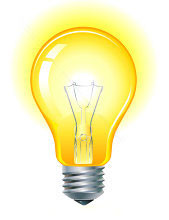
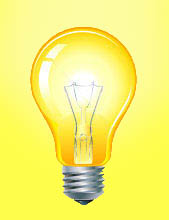
Projeto da Lampada

diff --git a/Modulo_02/miniProjetoLampada/script.js b/Modulo_02/miniProjetoLampada/script.js
@@ -1,94 +1,74 @@
 "use strict"
 
-// Mapeamento dos elementos HTML para variáveis JavaScript
-// Usamos "const" para variáveis que não terão seu valor alterado, como os elementos da página.
+// Definição de variaveis
 const lampada = document.getElementById("lampada")
 const ligar = document.getElementById("ligar")
 const desligar = document.getElementById("desligar")
 const piscar = document.getElementById("piscar")
 
-// Variável para armazenar o ID do setInterval, que é o temporizador que faz a lâmpada piscar.
-// Usamos "let" porque esse valor pode mudar.
+// Variável para armazenar o intervalo
 let idInterval
 
-// --- Funções de Lógica e Ação ---
+// ----------- Funções -----------
 
 // Esta função verifica se a lâmpada está quebrada.
-// É uma "função de validação" que retorna true ou false.
 function isLampadaQuebrada() {
-    // O método 'includes()' verifica se uma string existe em outra.
-    // Se o caminho da imagem da lâmpada contém a palavra "quebrada", retorna true.
     return lampada.src.includes("quebrada")
 }
 
 // Esta função liga a lâmpada.
 function ligarLampada() {
-    // '!' significa "NÃO". Ou seja: "Se a lâmpada NÃO está quebrada..."
     if (!isLampadaQuebrada()) {
-        // ...muda a imagem para a lâmpada ligada.
-        lampada.src = "ligada.jpg"
+        lampada.src = "ligada.jpg" //muda imagem
+        document.body.style.backgroundColor = "yellow" //muda a cor do fundo
     }
 }
 
 // Esta função desliga a lâmpada.
 function desligarLampada() {
     if (!isLampadaQuebrada()) {
-        // Se a lâmpada não está quebrada, muda a imagem para a lâmpada desligada.
-        lampada.src = "desligada.jpg"
+        lampada.src = "desligada.jpg" //muda imagem
+        document.body.style.backgroundColor = "black" //muda a cor do fundo
     }
 }
 
 // Esta função quebra a lâmpada.
 function quebrarLampada() {
-    // Muda a imagem para a lâmpada quebrada.
-    lampada.src = "quebrada.jpg"
-    // Quando a lâmpada quebra, a função 'pararPiscar' é chamada para garantir que o pisca-pisca pare.
+    lampada.src = "quebrada.jpg" //muda imagem
     pararPiscar()
+    document.body.style.backgroundColor = "gray" //muda a cor do fundo
 }
 
-// Esta função alterna a imagem entre ligada e desligada.
-// É usada na função 'piscarLampada'.
+//função usada para 'piscarLampada'.
 function trocarImagem() {
-    // Se o caminho da imagem inclui "desligada", a lâmpada está desligada.
     if (lampada.src.includes("desligada")) {
-        ligarLampada() // Chama a função para ligar.
+        ligarLampada()
     } else {
-        desligarLampada() // Caso contrário, chama a função para desligar.
+        desligarLampada() 
     }
 }
 
 // Esta função inicia o pisca-pisca.
 function piscarLampada() {
-    // 'idInterval' recebe o ID do temporizador.
-    // 'setInterval' chama a função 'trocarImagem' a cada 1000 milissegundos (1 segundo).
-    idInterval = setInterval(trocarImagem, 1000)
-    // O texto do botão Piscar muda para "Parar".
-    piscar.textContent = "Parar"
+    idInterval = setInterval(trocarImagem, 600) //definir intervalo e chama função trocarImagem
+    piscar.textContent = "Parar" //muda o texto do botão piscar
 }
 
 // Esta função para o pisca-pisca.
 function pararPiscar() {
-    // 'clearInterval' usa o ID do temporizador para pará-lo.
+    // limpar intervalo
     clearInterval(idInterval)
-    // O texto do botão Piscar volta a ser "Piscar".
-    piscar.textContent = "Piscar"
+    piscar.textContent = "Piscar" //muda texto do botão
 }
 
-// --- Event Listeners (Ações dos Botões e do Mouse) ---
+// ----------- Eventos -----------
 
-// 'addEventListener' associa uma ação a um evento (como um clique ou um movimento do mouse).
+ligar.addEventListener("click", ligarLampada) //evento no botão ligar
 
-// Quando o botão 'ligar' é clicado, a função 'ligarLampada' é executada.
-ligar.addEventListener("click", ligarLampada)
+desligar.addEventListener("click", desligarLampada) //evento no botão desligar
 
-// Quando o botão 'desligar' é clicado, a função 'desligarLampada' é executada.
-desligar.addEventListener("click", desligarLampada)
-
-// Quando o botão 'piscar' é clicado, a função 'piscarLampada' é executada.
-// Observação: Para a função piscar, é interessante usar um botão "inteligente" que alterna entre "Piscar" e "Parar".
-// Para isso, vamos mudar o 'EventListener' do piscar para:
 piscar.addEventListener("click", () => {
-    // A 'arrow function' permite ter uma pequena lógica aqui.
+    //condição para ligar ou desligar o pisca-pisca ao clicar
     if (piscar.textContent === "Piscar") {
         piscarLampada()
     } else {
@@ -96,11 +76,11 @@ piscar.addEventListener("click", () => {
     }
 })
 
-// Quando o mouse passa sobre a imagem da lâmpada, a função 'ligarLampada' é executada.
+//quando o mouse passar sobre a imagem
 lampada.addEventListener("mouseover", ligarLampada)
 
-// Quando o mouse sai da imagem, a função 'desligarLampada' é executada.
+//quando o mouse não passar sobre a imagem
 lampada.addEventListener("mouseout", desligarLampada)
 
-// Quando o usuário dá um clique duplo na imagem, a função 'quebrarLampada' é executada.
+//clique duplo quebra a lampada
 lampada.addEventListener("dblclick", quebrarLampada)

diff --git a/Modulo_02/miniProjetoLampada/style.css b/Modulo_02/miniProjetoLampada/style.css
@@ -1,0 +1,68 @@
+body {
+    display: flex;
+    flex-direction: column;
+    align-items: center;
+    justify-content: center;
+    background-color: black;
+    transition: background-color 0.2s ease;
+}
+
+main {
+    display: flex;
+    flex-direction: column;
+}
+
+.container img {
+    height: 20%;
+    width: 50%;
+}
+
+.button {
+    margin: 20px;
+    color: white;
+    font-family: Helvetica, sans-serif;
+    font-weight: bold;
+    font-size: 26px;
+    text-align: center;
+    background-color: #FFA12B;
+    position: relative;
+    padding: 16px 36px;
+    cursor: pointer;
+
+    text-shadow: 0px 1px 0px #000;
+    -webkit-tap-highlight-color: rgba(0, 0, 0, 0);
+
+    -webkit-box-shadow: inset 0 1px 0 #FFE5C4, 0 10px 0 #915100;
+    -moz-box-shadow: inset 0 1px 0 #FFE5C4, 0 10px 0 #915100;
+    box-shadow: inset 0 1px 0 #FFE5C4, 0 10px 0 #915100;
+
+    border-radius: 5px;
+    display: inline-block;
+}
+
+  .button:active {
+    top: 10px;
+    background-color: #F78900;
+    box-shadow: inset 0 1px 0 #FFE5C4, inset 0 -3px 0 #915100; 
+}
+
+  .button:after {
+    content: "";
+    height: 100%;
+    width: 100%;
+    padding: 4px;
+    position: absolute;
+    bottom: -12px;
+    left: -4px;
+    z-index: -1;
+    background-color: #2B1800;
+    border-radius: 5px;
+}
+
+  /* contêiner para alinhar os botões em linha */
+  .container {
+    display: flex;
+    justify-content: center; /* centraliza */
+    gap: 20px; /* espaçamento entre botões */
+    align-items: center;
+}

diff --git a/Modulo_02/miniProjetoLampada/index.html b/Modulo_02/miniProjetoLampada/index.html
@@ -11,12 +11,12 @@
     <header>
         <h1>Lampada</h1>
     </header>
-    <main>
+    <main class="container">
         <img id="lampada" src="desligada.jpg" alt="lampada">
         <div>
-            <button id="ligar">Ligar</button>
-            <button id="desligar" >Desligar</button>
-            <button id="piscar">Piscar</button>
+            <button id="ligar" class="button">Ligar</button>
+            <button id="desligar" class="button">Desligar</button>
+            <button id="piscar" class="button">Piscar</button>
         </div>
     </main>
     
